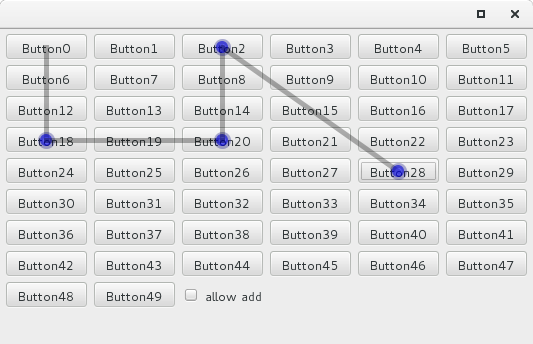
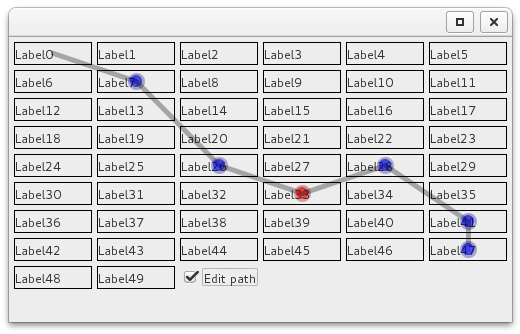
abstract reference to linked objects

Changed region(s): [[0.0, 0.0, 1.0, 0.9581], [0.0, 0.9581, 0.9846, 0.988]]

diff --git a/src/main/java/org/albfan/leven/LinkerGlassPane.java b/src/main/java/org/albfan/leven/LinkerGlassPane.java
@@ -2,19 +2,13 @@ package org.albfan.leven;
 
 import java.awt.BasicStroke;
 import java.awt.Color;
-import java.awt.Component;
-import java.awt.Container;
 import java.awt.Graphics;
 import java.awt.Graphics2D;
 import java.awt.Point;
-import java.awt.Rectangle;
 import java.awt.RenderingHints;
-import java.awt.event.*;
 import java.awt.geom.Ellipse2D;
-import java.awt.geom.Rectangle2D;
 import java.util.Vector;
 import javax.swing.JComponent;
-import javax.swing.JRootPane;
 
 /**
  * GlassPane with links between underliying components
@@ -22,34 +16,40 @@ import javax.swing.JRootPane;
  * Date: 12/12/12
  * Time: 8:36
  */
-public class LinkerGlassPane extends JComponent {
-    private Vector<JComponent> linked;
+public abstract class LinkerGlassPane<T> extends JComponent {
+    private Vector<T> linked;
     private int current=-1;
 
-    boolean allowAdd;
+    boolean allowEdit;
 
     int SIZE = 10;
 
     int RADIUS = 6;
+    private Color LINE_COLOR = new Color(0, 0, 0, 0.3f);
+    private Color POINT_COLOR = new Color(0, 0, 1, 0.6f);
+    private Color LINE_POINT_COLOR = new Color(0, 0, 1, 0.3f).darker().darker();
+    private Color POINT_CURRENT_COLOR = new Color(1, 0, 0, 0.6f);
+    private Color LINE_POINT_CURRENT_COLOR = new Color(1, 0, 0, 0.3f).darker().darker();
+    private int NO_SELECTION = -1;
 
     public LinkerGlassPane() {
-        linked = new Vector<JComponent>();
+        linked = new Vector<T>();
     }
 
-    public void link(JComponent comp) {
-        if (isAllowAdd()) {
+    public void link(T comp) {
+        if (!isAllowEdit()) {
             linked.add(comp);
             repaint();
         }
     }
 
-    public boolean isAllowAdd() {
-        return allowAdd;
+    public boolean isAllowEdit() {
+        return allowEdit;
     }
 
-    public void setAllowAdd(boolean allowAdd) {
-        this.allowAdd = allowAdd;
-        current = -1;
+    public void setAllowEdit(boolean allowEdit) {
+        this.allowEdit = allowEdit;
+        current = NO_SELECTION;
     }
 
     protected void paintComponent(Graphics g) {
@@ -58,90 +58,63 @@ public class LinkerGlassPane extends JComponent {
         g2d.setStroke(new BasicStroke(5.0F));
 
         if (linked.size() > 0) {
-            JComponent c1 = linked.get(0);
+            T c1 = linked.get(0);
             for (int i = 1; i < linked.size(); i++) {
-                JComponent c2 = linked.get(i);
-                Point p1 = getRectCenter(getBoundsInWindow(c1));
-                Point p2 = getRectCenter(getBoundsInWindow(c2));
-                g2d.setPaint(new Color(0, 0, 0, 0.3f));
+                T c2 = linked.get(i);
+                Point p1 = getPointFrom(c1);
+                Point p2 = getPointFrom(c2);
+                g2d.setPaint(LINE_COLOR);
                 g2d.drawLine(p1.x, p1.y, p2.x, p2.y);
                 int x = p2.x - RADIUS;
                 int y = p2.y - RADIUS;
                 int w = 2 * RADIUS;
                 int h = w;
-                g2d.setColor(new Color(0, 0, 1, 0.6f));
+                Color point_color;
+                Color line_point_color;
+                if (i == current) {
+                    point_color = POINT_CURRENT_COLOR;
+                    line_point_color = LINE_POINT_CURRENT_COLOR;
+                } else {
+                    point_color = POINT_COLOR;
+                    line_point_color = LINE_POINT_COLOR;
+                }
+                g2d.setColor(point_color);
                 Ellipse2D.Double shape = new Ellipse2D.Double(x, y, w, h);
                 g2d.fill(shape);
-                g2d.setColor(new Color(0, 0, 1, 0.3f).darker().darker());
+                g2d.setColor(line_point_color);
                 g2d.draw(shape);
                 c1 = c2;
             }
         }
     }
 
-    private Point getRectCenter(Rectangle rect) {
-        return new Point(rect.x + rect.width / 2, rect.y + rect.height / 2);
-    }
-
-    private Rectangle getBoundsInWindow(Component component) {
-        return getRelativeBounds(component, getRootPaneAncestor(component));
-    }
-
-    private Rectangle getRelativeBounds(Component component, Component relativeTo) {
-        return new Rectangle(getRelativeLocation(component, relativeTo), component.getSize());
-    }
-
-    private Point getRelativeLocation(Component component, Component relativeTo)
-    {
-        Point los = component.getLocationOnScreen();
-        Point rt = relativeTo.getLocationOnScreen();
-        return new Point(los.x - rt.x, los.y - rt.y);
-    }
-
-    private JRootPane getRootPaneAncestor(Component c) {
-        for (Container p = c.getParent(); p != null; p = p.getParent()) {
-            if ((p instanceof JRootPane)) {
-                return (JRootPane)p;
-            }
-        }
-        return null;
-    }
+    protected abstract Point getPointFrom(T t);
 
     public boolean contains(int x, int y) {
         return false;
     }
 
-    public ActionListener getLinkerListener() {
-        return new ActionListener() {
-            private JComponent last = null;
-            public void actionPerformed(ActionEvent e) {
-                JComponent source = (JComponent) e.getSource();
-                if (last != source) {
-                    link(source);
-                }
-                last = source;
-            }
-        };
-    }
+    public void setCurrent(T t) {
+        if (!isAllowEdit()) return;
 
-    public void setCurrent(MouseEvent event) {
         for (int i = 0; i < linked.size(); i++) {
-            if (linked.get(i) == event.getSource()) {
+            if (linked.get(i) == t) {
                 current = i;
-                return;
+                break;
             }
         }
-        if (current != -1 && linked.get(current) != event.getSource()) {
-            moveCurrent(event);
+        if (current != NO_SELECTION && linked.get(current) != t) {
+            moveCurrent(t);
+        } else {
+            repaint();
         }
     }
 
-    public void moveCurrent(MouseEvent event) {
-        if (current == -1) return;
+    public void moveCurrent(T t) {
+        if (current == NO_SELECTION) return;
 
-        JComponent comp = (JComponent) event.getSource();
-        if (comp != linked.get(current)) {
-            linked.set(current, comp);
+        if (!t.equals(linked.get(current))) {
+            linked.set(current, t);
             repaint();
         }
     }

diff --git a/src/main/java/org/albfan/leven/ComponentLinker.java b/src/main/java/org/albfan/leven/ComponentLinker.java
@@ -9,67 +9,101 @@ import javax.swing.event.ChangeEvent;
 import javax.swing.event.ChangeListener;
 import javax.swing.event.MouseInputAdapter;
 
-public class ComponentLinker
-{
-  public static void main(String[] args)
-  {
-    setupLookAndFeel();
+public class ComponentLinker {
+    public static void main(String[] args) {
+        setupLookAndFeel();
 
-    JFrame frame = new JFrame();
-    frame.setDefaultCloseOperation(3);
-    frame.setLocationRelativeTo(null);
+        JFrame frame = new JFrame();
+        frame.setDefaultCloseOperation(3);
+        frame.setLocationRelativeTo(null);
 
-    final LinkerGlassPane linker = new LinkerGlassPane();
-    frame.setGlassPane(linker);
-    linker.setVisible(true);
+        final LinkerGlassPane<JComponent> linker = new LinkerGlassPane<JComponent>() {
+
+            @Override
+            protected Point getPointFrom(JComponent t) {
+                return getRectCenter(getBoundsInWindow(t));
+            }
+
+            private Point getRectCenter(Rectangle rect) {
+                return new Point(rect.x + rect.width / 2, rect.y + rect.height / 2);
+            }
+
+            private Rectangle getBoundsInWindow(JComponent component) {
+                return getRelativeBounds(component, getRootPaneAncestor(component));
+            }
+
+            private Rectangle getRelativeBounds(JComponent component, JComponent relativeTo) {
+                return new Rectangle(getRelativeLocation(component, relativeTo), component.getSize());
+            }
+
+            private Point getRelativeLocation(JComponent component, JComponent relativeTo) {
+                Point los = component.getLocationOnScreen();
+                Point rt = relativeTo.getLocationOnScreen();
+                return new Point(los.x - rt.x, los.y - rt.y);
+            }
+
+            private JRootPane getRootPaneAncestor(JComponent c) {
+                for (Container p = c.getParent(); p != null; p = p.getParent()) {
+                    if ((p instanceof JRootPane)) {
+                        return (JRootPane) p;
+                    }
+                }
+                return null;
+            }
+        };
+        frame.setGlassPane(linker);
+        linker.setVisible(true);
 
 
-    MouseInputAdapter m = new MouseInputAdapter() {
+        MouseInputAdapter m = new MouseInputAdapter() {
+            JComponent last;
 
-      public void mousePressed(MouseEvent event) {
-        linker.setCurrent(event);
-      }
-    };
+            public void mousePressed(MouseEvent event) {
+                JComponent source = (JComponent) event.getSource();
+                if (last != source) {
+                    linker.link(source);
+                }
+                last = source;
+                linker.setCurrent(source);
+            }
+        };
 
-    JPanel content = new JPanel();
-    int rows = 10;
-    int cols = 5;
-    content.setLayout(new GridLayout(rows, cols, 5, 5));
-    content.setBorder(BorderFactory.createEmptyBorder(5, 5, 5, 5));
+        JPanel content = new JPanel();
+        int rows = 10;
+        int cols = 5;
+        content.setLayout(new GridLayout(rows, cols, 5, 5));
+        content.setBorder(BorderFactory.createEmptyBorder(5, 5, 5, 5));
 
-    ActionListener actionListener = linker.getLinkerListener();
+        for (int i = 0; i < rows * cols; i++) {
+            JLabel label = new JLabel("Label" + i);
+            label.addMouseListener(m);
+            label.setBorder(BorderFactory.createLineBorder(Color.BLACK));
+            content.add(label);
+        }
+        final JCheckBox check = new JCheckBox("Edit path");
+        check.addItemListener(new ItemListener() {
+            public void itemStateChanged(ItemEvent e) {
+                linker.setAllowEdit(check.isSelected());
+            }
+        });
+        content.add(check);
+        frame.add(content);
 
-    for (int i = 0; i < rows * cols; i++) {
-      JButton button = new JButton("Button" + i);
-      button.addActionListener(actionListener);
-      button.addMouseListener(m);
-      content.add(button);
+        frame.pack();
+        frame.setVisible(true);
     }
-    final JCheckBox check = new JCheckBox("allow add");
-    check.addItemListener(new ItemListener() {
-      public void itemStateChanged(ItemEvent e) {
-        linker.setAllowAdd(check.isSelected());
-      }
-    });
-    check.setSelected(true);
-    content.add(check);
-    frame.add(content);
 
-    frame.pack();
-    frame.setVisible(true);
-  }
-
-  private static void setupLookAndFeel() {
-    try {
-      UIManager.setLookAndFeel(UIManager.getSystemLookAndFeelClassName());
-    } catch (ClassNotFoundException e) {
-      e.printStackTrace();
-    } catch (InstantiationException e) {
-      e.printStackTrace();
-    } catch (IllegalAccessException e) {
-      e.printStackTrace();
-    } catch (UnsupportedLookAndFeelException e) {
-      e.printStackTrace();
+    private static void setupLookAndFeel() {
+        try {
+            UIManager.setLookAndFeel(UIManager.getSystemLookAndFeelClassName());
+        } catch (ClassNotFoundException e) {
+            e.printStackTrace();
+        } catch (InstantiationException e) {
+            e.printStackTrace();
+        } catch (IllegalAccessException e) {
+            e.printStackTrace();
+        } catch (UnsupportedLookAndFeelException e) {
+            e.printStackTrace();
+        }
     }
-  }
 }
